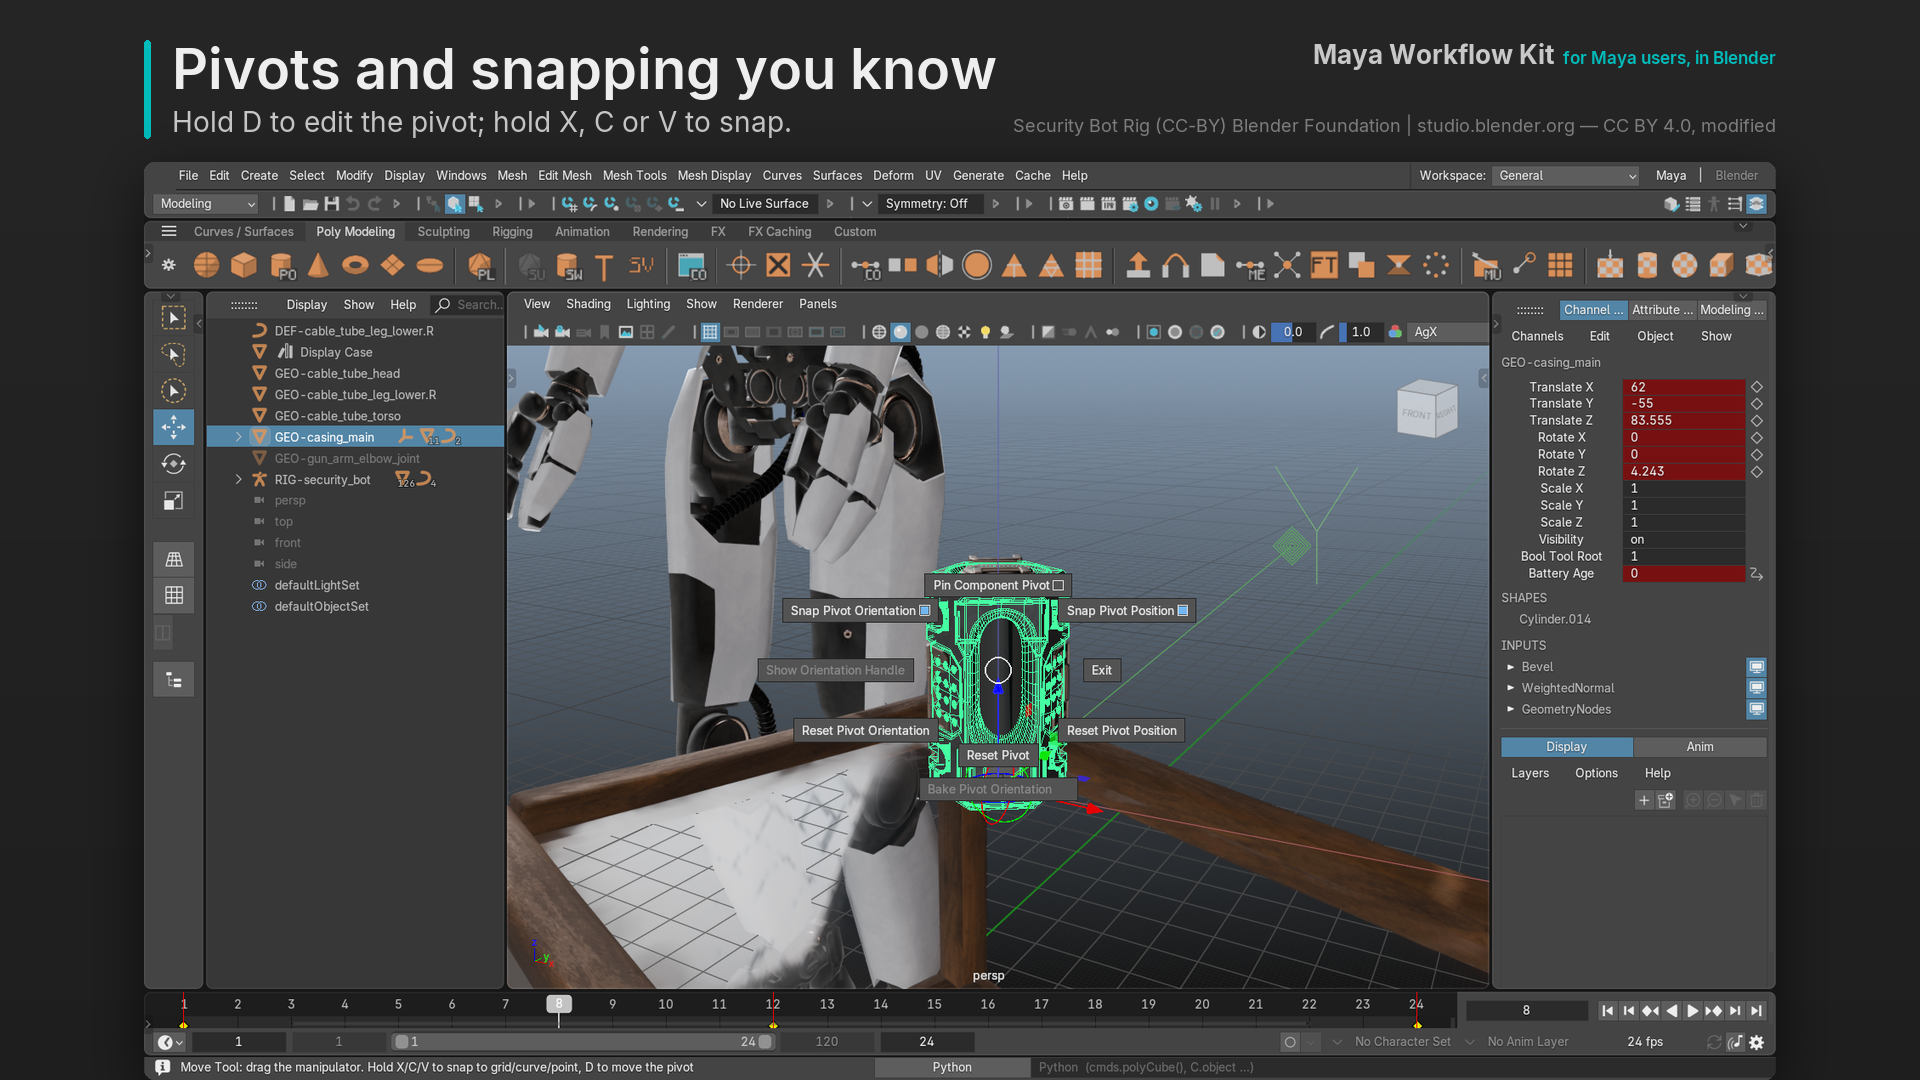
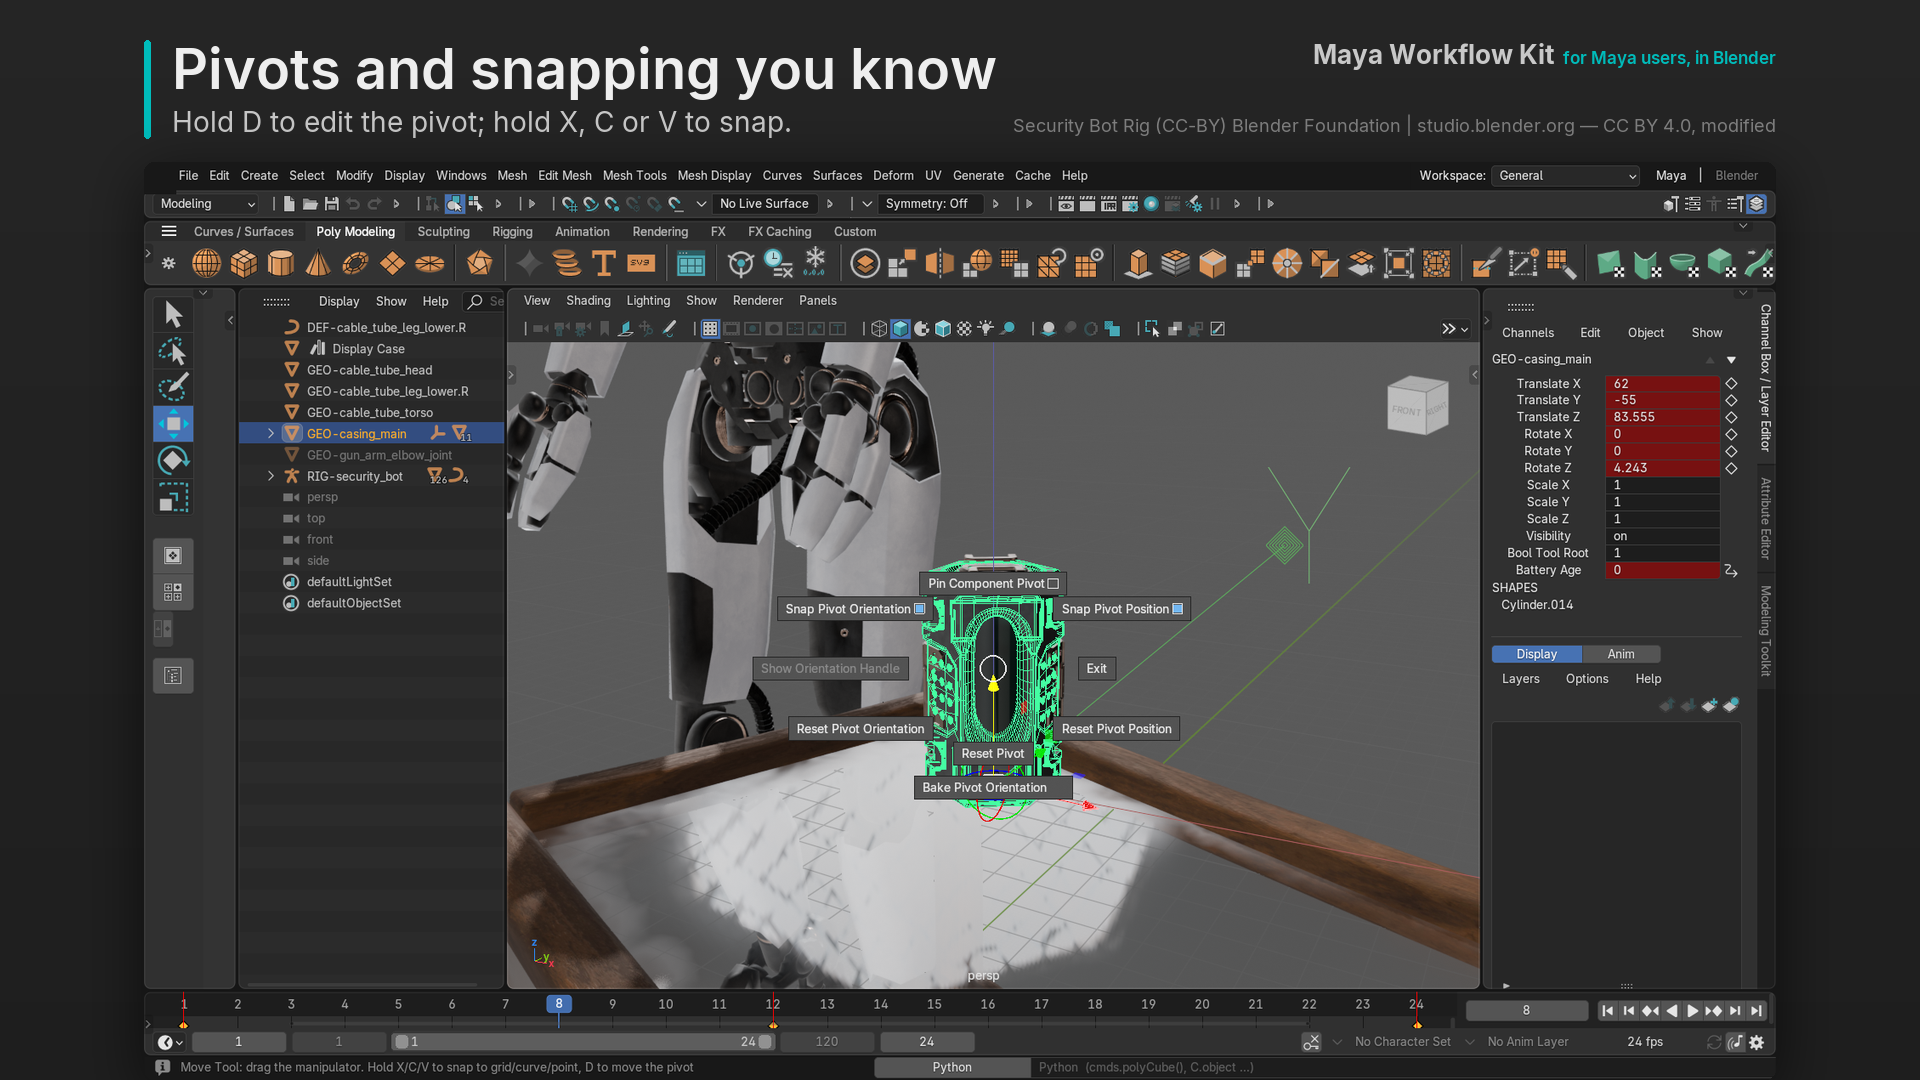
WIP step 142 media: store media and marketing stills retaken without a theme (#41)
Generators load the Maya layout from the extension's startup.blend
(step 130 removed allset.layout_install / the app template). Retaken in
Blender's factory theme with the current kit (narrow dock with tab strip,
Maya manipulator, menu icons): media/01-10 + featured, marketing screens,
key visuals. AE split leaves room for every Channel Box row; option-box
callout follows the menu with icons. Docs say which theme the shots use.

diff --git a/tools/marketing/shots.py b/tools/marketing/shots.py
@@ -25,7 +25,7 @@ from mathutils import Vector
 sys.path.insert(0, str(Path(__file__).resolve().parent))
 from scene import (ROOT, area_rect, check_capture, clear_objects, dog_scene, dog_view, floor, frame,  # noqa: E402
                    lab_scene, look, maya_look, maya_mode_on, mod, pack_scene, prefs, rain_keys, rain_scene, redraw,
-                   region_rect, screen_pos, select, shaders_ready_step, shading, show_bones, template_name, to_top,
+                   region_rect, screen_pos, select, shaders_ready_step, shading, show_bones, to_top,
                    v3d_override, viewport_rects)
 import sim  # noqa: E402
 from sim import MODULE, check, ev, run, setup, step, tap, view3d, win  # noqa: E402
@@ -136,8 +136,7 @@ def s_before_shot():
 @step
 def s_opt_in():
     setup()   # opts in to Maya mode (what the dialog's button does)
-    check("install the Maya layout template", bpy.ops.allset.layout_install() == {'FINISHED'})
-    bpy.ops.wm.read_homefile(app_template=template_name())
+    sim.load_maya_layout()   # the Maya layout startup.blend in the extension (step 130)
 
 
 # ------------------------------------------------------------------------------------------------ helpers (step 125)
@@ -314,7 +313,7 @@ def s_lab():
     stack = sim.dock_area('CHANNEL_BOX')
     before = set(win().screen.areas[:])
     with bpy.context.temp_override(window=win(), screen=win().screen, area=stack):
-        bpy.ops.screen.area_split(direction='HORIZONTAL', factor=0.55)
+        bpy.ops.screen.area_split(direction='HORIZONTAL', factor=0.62)   # AE on top, room for every CB row
     new = [a for a in win().screen.areas if a not in before]
     C["ae"] = new[0] if new else None
     if C["ae"]:

diff --git a/tools/marketing/clips.py b/tools/marketing/clips.py
@@ -24,7 +24,7 @@ from mathutils import Vector
 sys.path.insert(0, str(Path(__file__).resolve().parent))
 from scene import (ROOT, bg_result, clear_objects, dog_scene, dog_view, floor, frame, lab_scene, look,  # noqa: E402
                    maya_look, maya_mode_on, mod, pack_scene, prefs, rain_scene, redraw, screen_pos, select,
-                   shaders_ready_step, shading, show_bones, template_name, theme_unchanged, v3d_override,
+                   shaders_ready_step, shading, show_bones, theme_unchanged, v3d_override,
                    viewport_rects)
 import sim  # noqa: E402
 from sim import MODULE, check, ev, run, setup, step, view3d, win  # noqa: E402
@@ -219,8 +219,7 @@ def maya_session(kind="dog", setup_scene=None):
     @step
     def s_setup():
         setup()
-        check("install the Maya layout template", bpy.ops.allset.layout_install() == {'FINISHED'})
-        bpy.ops.wm.read_homefile(app_template=template_name())
+        sim.load_maya_layout()   # the Maya layout startup.blend in the extension (step 130)
 
     @step
     def s_scene():

diff --git a/tools/marketing/scene.py b/tools/marketing/scene.py
@@ -594,24 +594,6 @@ LOOK_STATE = {"on": False, "theme": None}
 KEEPER_INTERVAL = 0.05      # s: well inside one recording tick (0.3 - 0.7 s), so a new view is flat grey when drawn
 
 
-def template_name():
-    """The installed layout template: "Maya_Workflow_Kit" (step 125; Blender shows "Maya Workflow Kit"), else the
-    pre-125 "Allset" (builds made before the rename)."""
-    names = []
-    try:
-        tid = getattr(mod(".app_template"), "TEMPLATE_ID", None)
-        if tid:
-            names.append(tid)
-    except ImportError:
-        pass
-    names += ["Maya_Workflow_Kit", "Allset"]
-    for name in names:
-        for base in bpy.utils.app_template_paths():
-            if (Path(base) / name).is_dir():
-                return name
-    return names[-1]
-
-
 def maya_mode_on():
     try:
         return mod(".switch").is_on()

diff --git a/docs/distribution/marketing/style.md b/docs/distribution/marketing/style.md
@@ -26,8 +26,8 @@ glyphs in every shot, so the brand read as "Blender add-on" (user feedback 10-20
 | `adsk-yellow` = `highlight` | #ffff00 | **action moments only**: click pulse, key-press flash, the CTA pill |
 | `adsk-black` = `on-accent` / `on-highlight` / `outline` | #000000 | text on teal / yellow, the 2 px edge round callouts |
 
-Selection colours in the shots stay what they are (kit Maya theme: selected white, lead green #43ffa3, highlight blue
-#5285a6) — the teal is none of them (ΔE00 26.3 vs #43ffa3, 23.1 vs #5285a6, 49.7 vs Blender orange #e87d0d; Hello Yellow 41.3), so a callout never reads as a UI state.
+Selection colours in the shots stay what they are (kit-drawn since step 134: selected white, lead green #43ffa3;
+Blender's factory theme for the UI, #41; highlight blue #5285a6) — the teal is none of them (ΔE00 26.3 vs #43ffa3, 23.1 vs #5285a6, 49.7 vs Blender orange #e87d0d; Hello Yellow 41.3), so a callout never reads as a UI state.
 
 ### Where the values come from (colour values only)
 
@@ -132,12 +132,14 @@ Words in images: a title of ≤ 6 words and one line of ≤ 12 words (references
 
 ## Scenes
 
-- Real kit session (GUI Blender 4.5, clean sandbox, Maya theme, Material Preview with the world hidden so the
-  viewport shows the theme background), 1920 × 1080 window at this PC's 125 % UI scale.
+- Real kit session (GUI Blender 4.5, clean sandbox, Blender's factory theme — the kit ships none, #41; Material
+  Preview lit by the HDRI through a scene world whose camera rays see flat #5c5c5c), 1920 × 1080 window at this
+  PC's 125 % UI scale.
 - Licensed models only, each with its licence recorded in `CREDITS.md` (the step 125 scene set replaces step 122's).
-- Viewport background (step 125): every 3D View in a shot or clip shows **Maya's gradient** (Alt+B state, top #889db3
-  → bottom #111315, `research/maya/re/background_120.md`), checked after capture by `tools/marketing/bg_check.py`
-  (a flat background fails). Steps 122–124 used Maya's flat #5c5c5c.
+- Viewport background (step 142, #41): every Maya-mode 3D View in a shot or clip shows **Maya's factory flat #5c5c5c**
+  (`research/maya/re/background_120.md`), checked after capture by `tools/marketing/bg_check.py` (Blender's
+  #3d3d3d or a gradient fails) together with "theme unchanged". Step 125's gradient came from a theme, which the
+  kit no longer has (Blender keeps a gradient only in themes).
 - Bones are shown only in the rigging shot; import helpers (empties) are hidden; glTF quaternion channels converted
   to Rotate X / Y / Z so the Channel Box reads like Maya's.
 - The Blender logo in the top-left corner is painted over (extensions.blender.org terms 2.2).

diff --git a/docs/distribution/listing.md b/docs/distribution/listing.md
@@ -169,7 +169,7 @@ a video's poster is its first frame. GIFs can only be linked in the description,
 discourages ("no heavy image (.gif images in particular)").
 
 Regenerate with `python tools/make_listing_media.py` (= `tools/marketing/make_marketing.py`: a GUI Blender in a clean
-sandbox with the built zip (until step 130 also the kit's Maya theme — those shots are listed to retake in `docs/steps/step_130_docs.md`), a scene of licensed third-party models — each
+sandbox with the built zip and **Blender's own factory theme** (step 142, #41: the kit ships no theme since step 130, and the generators never write one — `tests/test_step142_media.py`; the visible UI chrome is Blender's default theme, the Maya colours in the viewport — flat #5c5c5c background, green / white selection, component colours, grid, manipulator — are drawn by the kit), a scene of licensed third-party models — each
 credited with its licence in `docs/distribution/marketing/CREDITS.md` — then Pillow captions in the visual system of
 `docs/distribution/marketing/style.md`, copy from `copy.md`). The icon and featured image are kit-made; the scenes use
 the models credited at the end of part B (add the copy.md "Credits line" there when pasting).

diff --git a/docs/distribution/marketing/README.md b/docs/distribution/marketing/README.md
@@ -1,7 +1,8 @@
 # Marketing kit — Maya Workflow Kit
 
-Everything here is made from real kit sessions in Blender (GUI Blender, clean sandbox, Maya theme; step 125: Maya's
-gradient viewport background, checked by `tools/marketing/bg_check.py` — steps 122–124 used the flat #5c5c5c) with the
+Everything here is made from real kit sessions in Blender (GUI Blender, clean sandbox, **Blender's factory theme** —
+step 142, #41: the kit ships no theme since step 130 and the generators never write one; Maya's flat #5c5c5c viewport
+background is view / scene data, checked by `tools/marketing/bg_check.py`; step 125's gradient needed a theme) with the
 licensed models of `CREDITS.md`. Name and lockup (step 125): "Maya Workflow Kit" + "for Maya users, in Blender"
 (`style.md`, decision 12 revision). Copy: `copy.md`. Visual system: `style.md` (step 124: Maya logo teal + Autodesk Hello Yellow, one lockup rule, motion). Design
 review: `design_review.md` (impeccable critique and what was fixed).
